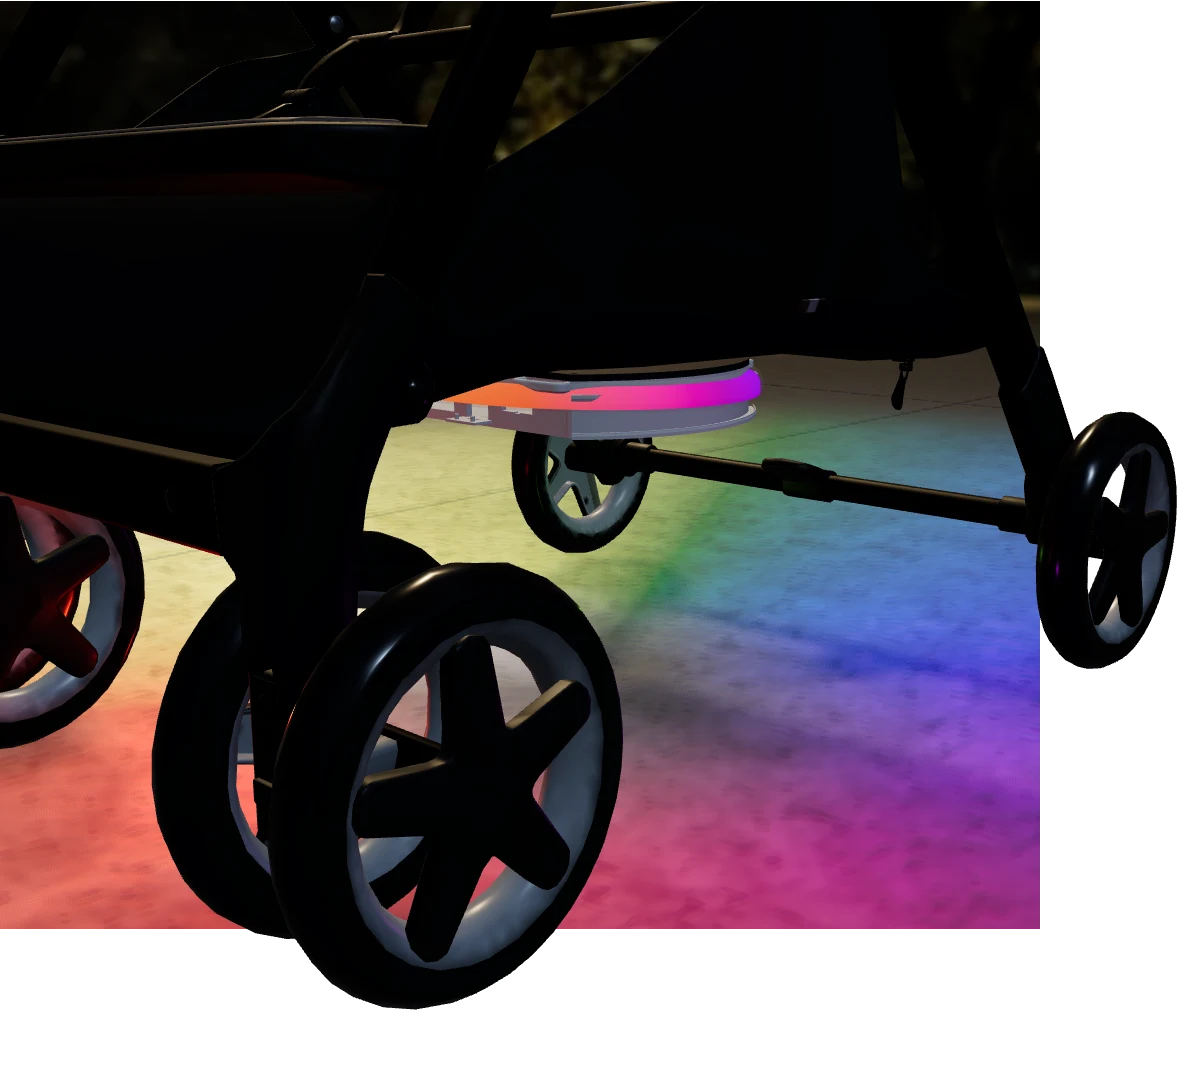
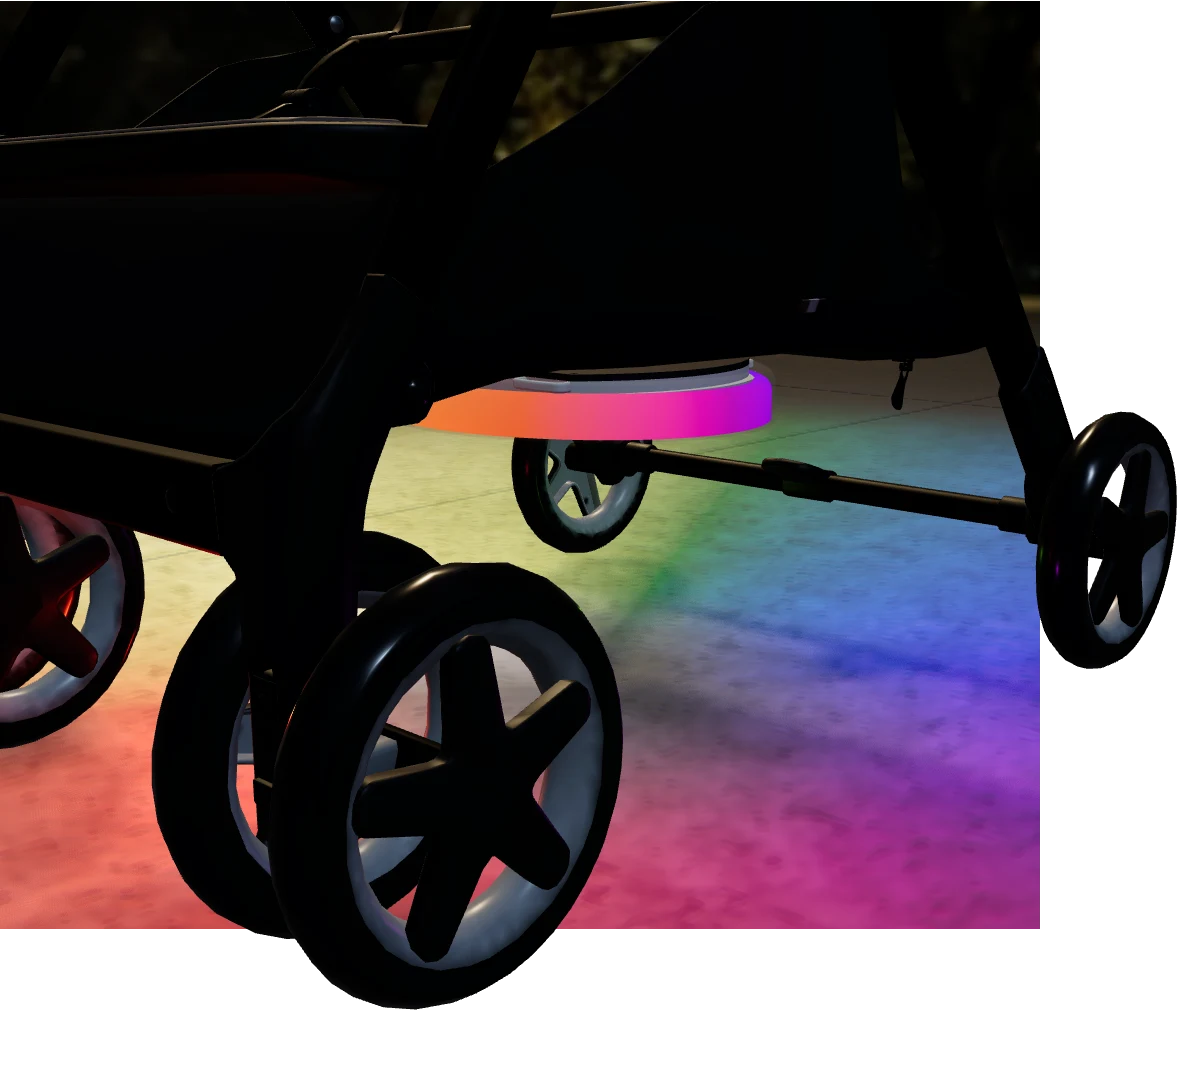
Enlarge Glowbaby light channel
Match the diffuser height to the printed base and move its perimeter outside the CAD body.

Changed region(s): [[0.3392, 0.3386, 0.6475, 0.431]]

diff --git a/src/components/home/glowbaby-channel.ts b/src/components/home/glowbaby-channel.ts
@@ -50,7 +50,7 @@ export function sampleLightColor(target: THREE.Color, angle: number, time: numbe
 }
 
 /** Closed domed channel swept around an ellipse; the seam shares identical positions.
- * Profile follows the supplied 15.08 × 12.7 mm envelope, with a flat foot and domed roof.
+ * Profile covers the 25 mm printed base, with a flat foot and domed roof.
  * It intentionally does not inherit the base model's edge cutouts.
  */
 export function createChannelGeometry(inner = false) {

diff --git a/src/components/home/hero-scene-config.ts b/src/components/home/hero-scene-config.ts
@@ -25,11 +25,11 @@ export const heroSceneConfig = {
     topOffset: 0.025,
   },
   channel: {
-    radiusX: 0.094,
-    radiusZ: 0.075,
-    y: 0.012,
+    radiusX: 0.099,
+    radiusZ: 0.081,
+    y: -0.00025,
     width: 0.01508,
-    height: 0.0127,
+    height: 0.0255,
     profileScale: 1,
     rotation: 0,
     segments: 192,

diff --git a/docs/interactive-hero.md b/docs/interactive-hero.md
@@ -73,7 +73,7 @@ All artistic values live in `hero-scene-config.ts`:
 
 - Assembly position: (0, 0.1402, 0.065) m, zero rotation, unit scale. Vertical samples of the actual optimized basket put its underside at approximately 173.6-177.0 mm across the mounting footprint. The assembly is raised 45.2 mm from the earlier floating position; the existing strap tops reach 173.2 mm and meet the basket near the front of the footprint. CAD dimensions remain unchanged. This visual mounting relationship is not a final hardware specification.
 - Two low-profile dark bands on the top suggest prototype straps, not final hardware.
-- Channel centerline radii X **94 mm**, Z **75 mm**, Y **12 mm**. Outer profile **15.08 x 12.7 mm**, profile scale one. These radii place the light outside the actual base; earlier smaller radii hid it inside the CAD wall.
+- Channel centerline radii X **99 mm**, Z **81 mm**. The **15.08 x 25.5 mm** outer profile begins 0.25 mm below the CAD base, covering its full 25 mm height with a small tolerance. Its inner edge clears the measured body bounds so the printed geometry does not break through the diffuser.
 - Closed 192-segment custom sweep, flat foot and domed roof; full 360-degree continuity independent of base cutouts. Each layer has 7,296 triangles. Profile represents the external envelope, not the manufacturing cavity. `channel.rotation` rotates the actual oval about Y, rather than just shifting angular sampling.
 - Milky transparent physical outer material (opacity 0.12) over an inner angular-UV shader. Visibility is steady amber; Gradient retains the animated multicolor blend (internal ID `flow`); Holiday has eight repeating red/white pairs with straight color divisions. Gradient and Holiday rotate at the shared `colorRotationSpeed`. Holiday emission preserves saturated red; its ground glow follows the rotating red/white pattern with broader transitions and a blended center. A 2.4-second activation pulse settles into the chosen mode. `emission` and `holiday` tuning directly reach the shaders and sampled lights. No per-LED components or draw calls.
 - Dusk background `environment.background = #171827`. Neutral sky/key/rim lighting keeps the stroller readable without colored light appearing inside the basket. The key and rim lights cast no overhead silhouette shadows.
